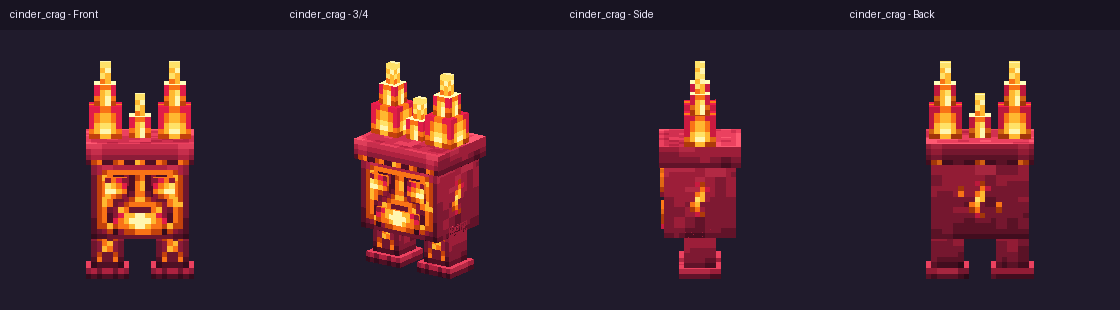
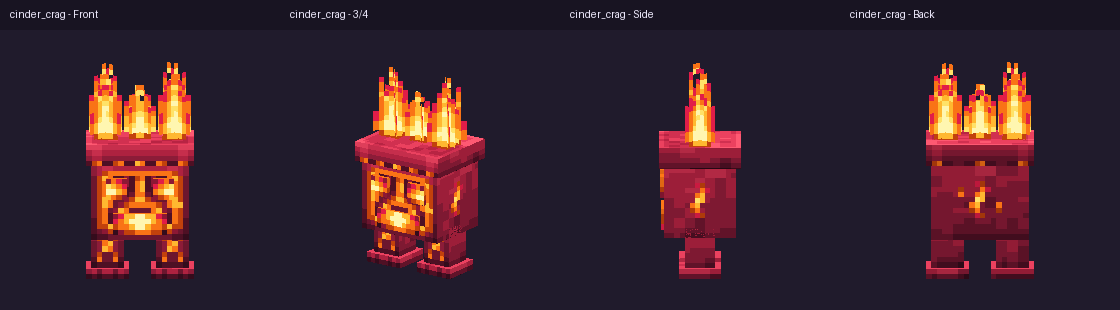
Art Pass Section 2.4: replace Cinder Crag rocky cones with crossed-plane cutout fire

diff --git a/tools/art/make_pets_art.py b/tools/art/make_pets_art.py
@@ -1062,76 +1062,105 @@ def make_cinder_crag():
     paint_box_2x(img, 88, 0, 5, 2, 1, {"front": mouth_front}, MAGMA)
     paint_box_2x(glow, 88, 0, 5, 2, 1, {"front": mouth_glow}, MAGMA)
 
-    # 5. Three Pointy Flame Spires on Top (crimson-red outer ribs framing golden-orange flame cores)
-    # Outer flames: base [3,3,3]@[0,16] & [30,16] -> 6x6x6 px
-    for idx, fu in enumerate((0, 30)):
-        shade_ramp_box(fu, 16, 3, 3, 3, FLAME_RAMP, seed=5 + idx, texture_scale=2)
-        base_side = [
-            "rroorr",
-            "roggor",
-            "roggor",
-            "rgyygr",
-            "ogwwgo",
-            "ddggdd",
-        ]
-        base_glow = [
-            "..oo..",
-            ".oggo.",
-            ".oggo.",
-            ".gyyg.",
-            ".gwwg.",
-            "..gg..",
-        ]
-        paint_box_2x(img, fu, 16, 3, 3, 3, {
-            "front": base_side, "back": base_side, "east": base_side, "west": base_side,
-            "top": [
-                "rroorr",
-                "roggor",
-                "ogwwgo",
-                "ogwwgo",
-                "roggor",
-                "rroorr",
-            ],
-        }, MAGMA)
-        paint_box_2x(glow, fu, 16, 3, 3, 3, {
-            "front": base_glow, "back": base_glow, "east": base_glow, "west": base_glow,
-        }, MAGMA)
+    # 5. Three Actual Crossed-Plane Fire Tongues on Top (0-depth cutout fire billboards + full glowmask)
+    def paint_cutout_flame(u, v, w, h, front_grid):
+        back_grid = [row[::-1] for row in front_grid]
+        paint_box_2x(img, u, v, w, h, 0, {"front": front_grid, "back": back_grid}, MAGMA)
+        paint_box_2x(glow, u, v, w, h, 0, {"front": front_grid, "back": back_grid}, MAGMA)
 
-    # Mid tiers [2,2,2]@[14,16], [44,16], and center spire base [60,16] -> 4x4x4 px
-    for idx, mu in enumerate((14, 44, 60)):
-        shade_ramp_box(mu, 16, 2, 2, 2, FLAME_RAMP[2:], seed=8 + idx, texture_scale=2)
-        mid_side = [
-            "roor",
-            "rgyr",
-            "ogwo",
-            "dgwd",
-        ]
-        mid_glow = [
-            ".oo.",
-            ".gy.",
-            ".gw.",
-            ".gw.",
-        ]
-        paint_box_2x(img, mu, 16, 2, 2, 2, {
-            "front": mid_side, "back": mid_side, "east": mid_side, "west": mid_side,
-        }, MAGMA)
-        paint_box_2x(glow, mu, 16, 2, 2, 2, {
-            "front": mid_glow, "back": mid_glow, "east": mid_glow, "west": mid_glow,
-        }, MAGMA)
+    flame_outer_a = [
+        "....o...",
+        "...ry...",
+        "...o..r.",
+        "..ro..o.",
+        "..oyr.o.",
+        ".rogorg.",
+        ".roygyo.",
+        ".ogwygo.",
+        ".ogywgo.",
+        "rogywgor",
+        "roywwyor",
+        "ogwwwwgo",
+        "ogywwwgo",
+        ".dggggd.",
+    ]
+    flame_outer_b = [
+        "..o.....",
+        "..yr....",
+        ".r..o...",
+        ".o..or..",
+        ".o.ryo..",
+        ".grogr..",
+        ".oygyor.",
+        ".ogywgo.",
+        ".ogwygo.",
+        "rogywgor",
+        "roywwyor",
+        "ogwwwwgo",
+        "ogwwwwgo",
+        ".dggggd.",
+    ]
+    flame_outer_core = [
+        "...o..",
+        "..yg..",
+        ".ro.r.",
+        ".og.o.",
+        "rogyor",
+        "ogywgo",
+        "ogywgo",
+        "ogwwgo",
+        "gywwyg",
+        "gwwwwg",
+        "ywwwwy",
+        ".gggg.",
+    ]
+    # Left & Right outer fire crowns (mirror horizontally on right for balanced flame dancing)
+    paint_cutout_flame(0, 16, 4, 7, flame_outer_a)
+    paint_cutout_flame(10, 16, 4, 7, flame_outer_b)
+    paint_cutout_flame(20, 16, 3, 6, flame_outer_core)
+    paint_cutout_flame(30, 16, 4, 7, [row[::-1] for row in flame_outer_a])
+    paint_cutout_flame(40, 16, 4, 7, [row[::-1] for row in flame_outer_b])
+    paint_cutout_flame(50, 16, 3, 6, [row[::-1] for row in flame_outer_core])
 
-    # Spire tips [1,2,1]@[24,16], [54,16], [70,16] -> 2x4x2 px
-    for idx, tu in enumerate((24, 54, 70)):
-        shade_ramp_box(tu, 16, 1, 2, 1, FLAME_RAMP[3:], seed=12 + idx, texture_scale=2)
-        tip_side = ["yy", "gw", "yg", "og"]
-        tip_glow = ["yy", "gw", "yg", "og"]
-        paint_box_2x(img, tu, 16, 1, 2, 1, {
-            "front": tip_side, "back": tip_side, "east": tip_side, "west": tip_side,
-            "top": ["ww", "yy"],
-        }, MAGMA)
-        paint_box_2x(glow, tu, 16, 1, 2, 1, {
-            "front": tip_glow, "back": tip_glow, "east": tip_glow, "west": tip_glow,
-            "top": ["ww", "yy"],
-        }, MAGMA)
+    flame_center_a = [
+        "..o...",
+        "..yr..",
+        ".o..r.",
+        ".og.o.",
+        "rogyor",
+        "ogywgo",
+        "ogwwgo",
+        "gywwyg",
+        "gwwwwg",
+        ".dggd.",
+    ]
+    flame_center_b = [
+        "...o..",
+        "..ry..",
+        ".r..o.",
+        ".o.go.",
+        "roygor",
+        "ogwygo",
+        "ogwwgo",
+        "gywwyg",
+        "gwwwwg",
+        ".dggd.",
+    ]
+    flame_center_core = [
+        "..y...",
+        "..go..",
+        ".og.r.",
+        "rogyo.",
+        "ogywgr",
+        "ogwwgo",
+        "gywwyg",
+        "gwwwwg",
+        "ywwwwy",
+        ".dggd.",
+    ]
+    paint_cutout_flame(60, 16, 3, 5, flame_center_a)
+    paint_cutout_flame(68, 16, 3, 5, flame_center_b)
+    paint_cutout_flame(76, 16, 3, 5, flame_center_core)
 
     # 6. Two Blocky Crimson-Stone Pillar Legs + Flared Feet
     # Legs [3, 4, 3] at [0, 26] & [32, 26] -> 6x8x6 px (with Steve's subtle X ember fissure on front!)

diff --git a/src/main/java/com/silkpanda/artilian/pet/CinderCragEntity.java b/src/main/java/com/silkpanda/artilian/pet/CinderCragEntity.java
@@ -7,6 +7,7 @@ import net.minecraft.sounds.SoundEvent;
 import net.minecraft.sounds.SoundEvents;
 import net.minecraft.tags.BlockTags;
 import net.minecraft.tags.FluidTags;
+import net.minecraft.util.Mth;
 import net.minecraft.util.RandomSource;
 import net.minecraft.world.damagesource.DamageSource;
 import net.minecraft.world.entity.EntityType;
@@ -121,15 +122,24 @@ public class CinderCragEntity extends ArtilianPetEntity {
     @Override
     public void aiStep() {
         super.aiStep();
-        if (this.level().isClientSide && this.random.nextInt(5) == 0) {
+        if (this.level().isClientSide && this.random.nextInt(2) == 0) {
+            int crownSlot = this.random.nextInt(3);
+            double localX = crownSlot == 0 ? -0.20 : (crownSlot == 1 ? 0.20 : 0.0);
+            float yawRad = this.yBodyRot * Mth.DEG_TO_RAD;
+            double px = this.getX() + localX * Mth.cos(yawRad) + (this.random.nextDouble() - 0.5) * 0.14;
+            double pz = this.getZ() + localX * Mth.sin(yawRad) + (this.random.nextDouble() - 0.5) * 0.14;
+            double py = this.getY() + (crownSlot == 2 ? 0.88 : 0.96) + this.random.nextDouble() * 0.16;
             this.level().addParticle(
-                    ParticleTypes.SMALL_FLAME,
-                    this.getRandomX(0.32),
-                    this.getY() + 1.08 + this.random.nextDouble() * 0.15,
-                    this.getRandomZ(0.32),
-                    0.0,
-                    0.02,
-                    0.0);
+                    this.random.nextInt(3) == 0 ? ParticleTypes.FLAME : ParticleTypes.SMALL_FLAME,
+                    px,
+                    py,
+                    pz,
+                    (this.random.nextDouble() - 0.5) * 0.015,
+                    0.02 + this.random.nextDouble() * 0.015,
+                    (this.random.nextDouble() - 0.5) * 0.015);
+            if (this.random.nextInt(14) == 0) {
+                this.level().addParticle(ParticleTypes.LAVA, px, py, pz, 0.0, 0.02, 0.0);
+            }
         }
     }
 

diff --git a/src/main/java/com/silkpanda/artilian/client/CinderCragModel.java b/src/main/java/com/silkpanda/artilian/client/CinderCragModel.java
@@ -2,6 +2,7 @@ package com.silkpanda.artilian.client;
 
 import com.silkpanda.artilian.ArtilianMod;
 import com.silkpanda.artilian.pet.CinderCragEntity;
+import net.minecraft.client.renderer.RenderType;
 import net.minecraft.resources.ResourceLocation;
 import software.bernie.geckolib.model.GeoModel;
 
@@ -23,5 +24,10 @@ public class CinderCragModel extends GeoModel<CinderCragEntity> {
     @Override
     public ResourceLocation getAnimationResource(CinderCragEntity entity) {
         return ANIMATIONS;
+    }
+
+    @Override
+    public RenderType getRenderType(CinderCragEntity animatable, ResourceLocation texture) {
+        return RenderType.entityCutoutNoCull(texture);
     }
 }

diff --git a/PLAN.md b/PLAN.md
@@ -10,7 +10,7 @@ Written 2026-11-15; consolidated 2026-11-18 into a single phased and staged plan
 
 | | |
 |---|---|
-| **In progress** | **Art Pass — Section 2.4 (Pet & Companion Creatures, one creature at a time)** on branch `art/pass-3-pets` (built on `art/pass-2-weapons-items`): **Chester** (`chester` + `chester_sleep`, `128×128`, commit `6411af1`), **Crystal Fox** (`crystal_fox`, `256×128` 2× coat + `crystal_fox_glowmask.png` + `AutoGlowingGeoLayer` + `--crystal-fox` CLI flag, commit `df1c518`), **Shadow Wisp** (`shadow_wisp`, `256×128` 2× shadow coat + `shadow_wisp_glowmask.png` + `AutoGlowingGeoLayer` + `--shadow-wisp` CLI flag, commits `499694c`/`89c3542`), and **Cinder Crag** (`cinder_crag`, `256×128` 2× crimson-basalt & magma coat + `cinder_crag_glowmask.png` + `AutoGlowingGeoLayer` + `--cinder-crag` CLI flag) upgraded and passing `lint_art.py --entity <id> --strict`, `preview_geo.py`, and `./gradlew build`. |
+| **In progress** | **Art Pass — Section 2.4 (Pet & Companion Creatures, one creature at a time)** on branch `art/pass-3-pets` (built on `art/pass-2-weapons-items`): **Chester** (`chester` + `chester_sleep`, `128×128`, commit `6411af1`), **Crystal Fox** (`crystal_fox`, `256×128` 2× coat + `crystal_fox_glowmask.png` + `AutoGlowingGeoLayer` + `--crystal-fox` CLI flag, commit `df1c518`), **Shadow Wisp** (`shadow_wisp`, `256×128` 2× shadow coat + `shadow_wisp_glowmask.png` + `AutoGlowingGeoLayer` + `--shadow-wisp` CLI flag, commits `499694c`/`89c3542`), and **Cinder Crag** (`cinder_crag`, `256×128` 2× crimson-basalt & magma coat + `cinder_crag_glowmask.png` + `AutoGlowingGeoLayer` + crossed-plane cutout `entityCutoutNoCull` fire crown + `--cinder-crag` CLI flag, commit `7490ec6` + fire crown update) upgraded and passing `lint_art.py --entity <id> --strict`, `preview_geo.py`, and `./gradlew build`. |
 | **Next** | Continue Section 2.4 **one creature at a time** on `art/pass-3-pets` (next pets/creatures with `lint_art.py --strict` notes or `<128×128` sheets: `zaphox`, `galecorn`, `ember_drake`, `peepkin`, `prismling`, `flurrywing`, `sunbeam`, `frogduck`, plus structure enemies & `crystal_colossus`). Always inspect the kid's drawing in `qa/reference/pets/` first (`alex-pets-drawing-2026-11-15.jpg` for `zaphox` & `galecorn`). Then run `./gradlew runClient` visual check & open PRs (`art/pass-1-armor`, `art/pass-2-weapons-items`, `art/pass-3-pets` → `main`). |
 | **Waiting on the owner** | 1. In-game look & screenshots when home for the 5 v3 armor sets, Section 2.2/2.3 icons, Section 2.4 upgraded pets (`chester`, `crystal_fox`, `shadow_wisp`, `cinder_crag`), **Boss Framework**, **Tier 3 Arsenal**, **The Great All-Seer**, **Primal Portal / Dragon Jungle**, **Embercrown Sovereign**, **Twin-Star Endgame**, and family LAN co-op playtest across Phases 1–5 (`qa/evidence/`). 2. The kids' official names for **Prismling**, **Flurrywing**, **Frogduck**, and **Zapkin** (placeholders; **Sunbeam** is final; only `en_us` display names change). 3. Steve's official names for **Shadow Wisp** and **Cinder Crag**. 4. Confirm the `PERSONAL_INFO_BLOCKLIST` GitHub Actions secret is set. |
 | **Other work in flight** | `art/sunsteel-armor-redesign` → `art/pass-1-armor` (Section 1 & 2.1) → `art/pass-2-weapons-items` (Section 2.2 & 2.3) → `art/pass-3-pets` (Section 2.4 in progress). |
